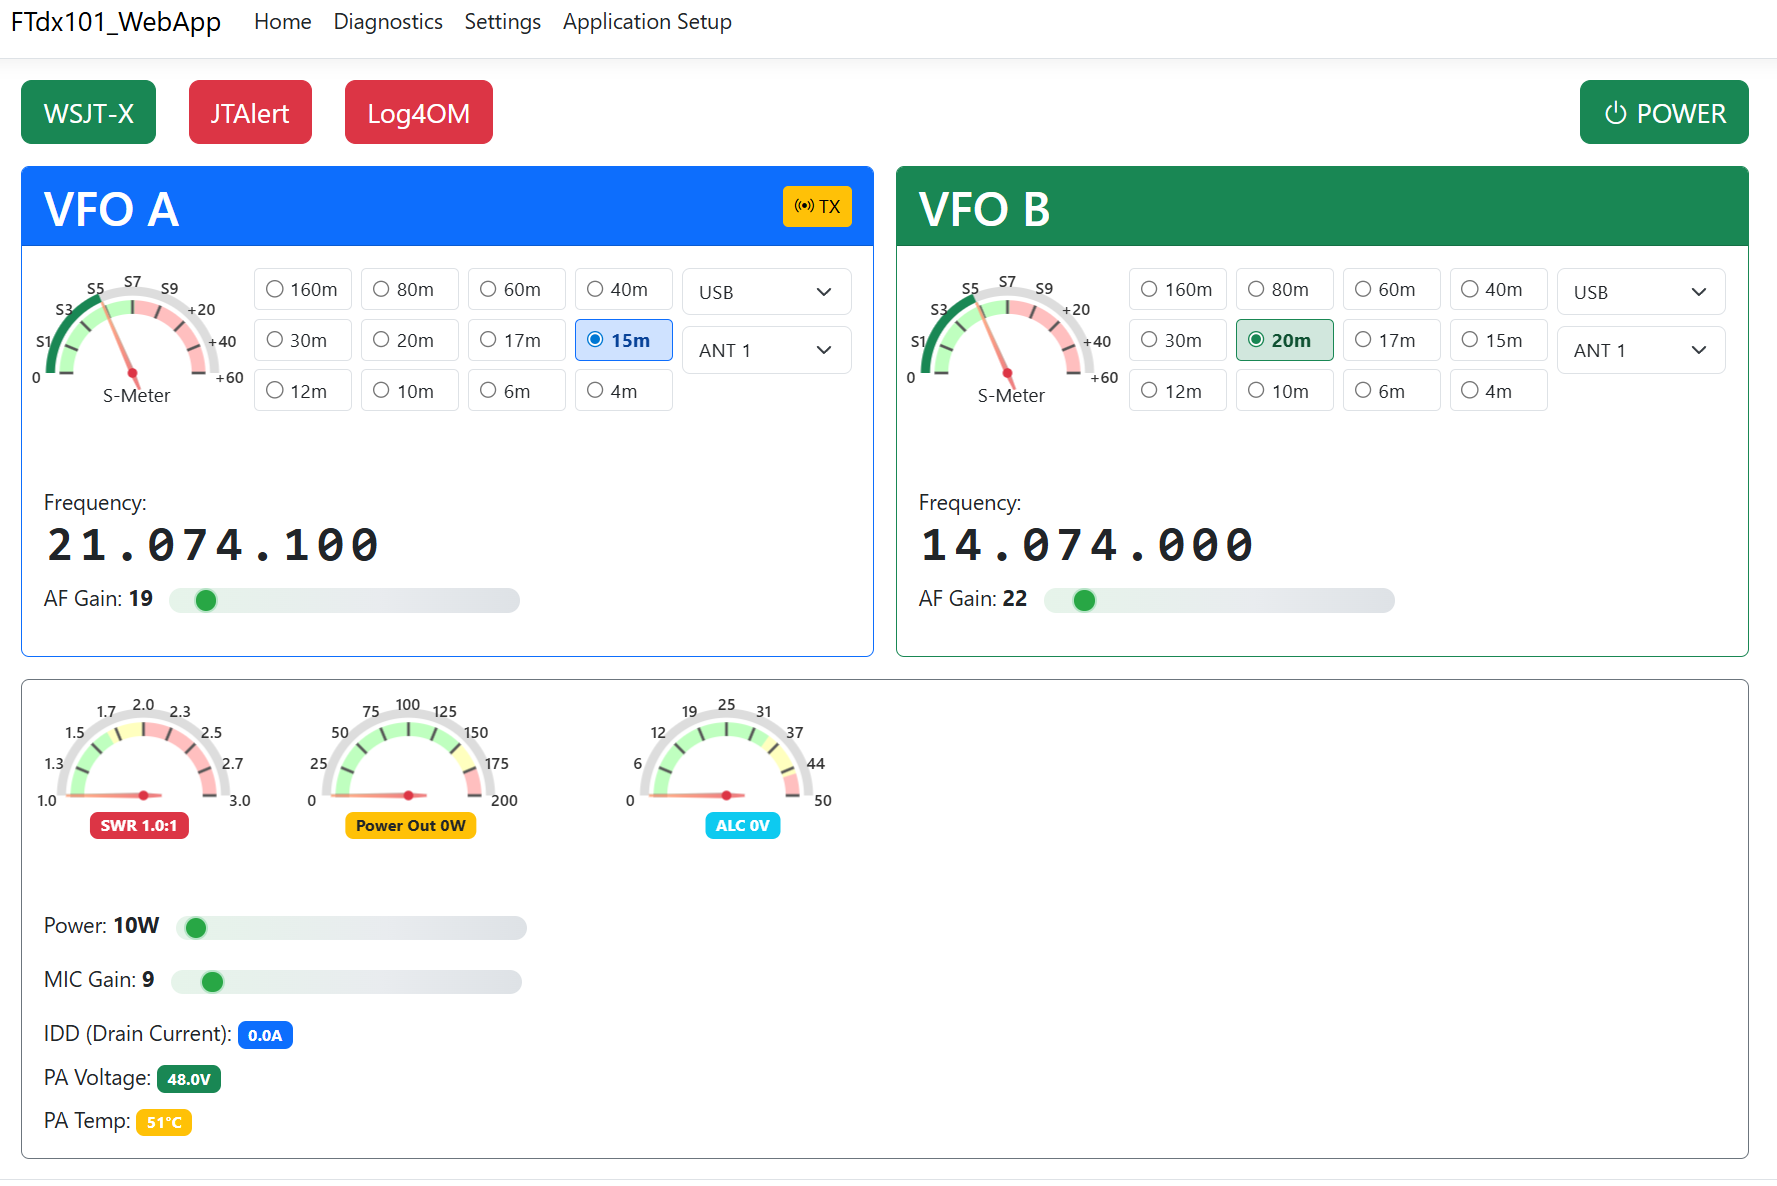
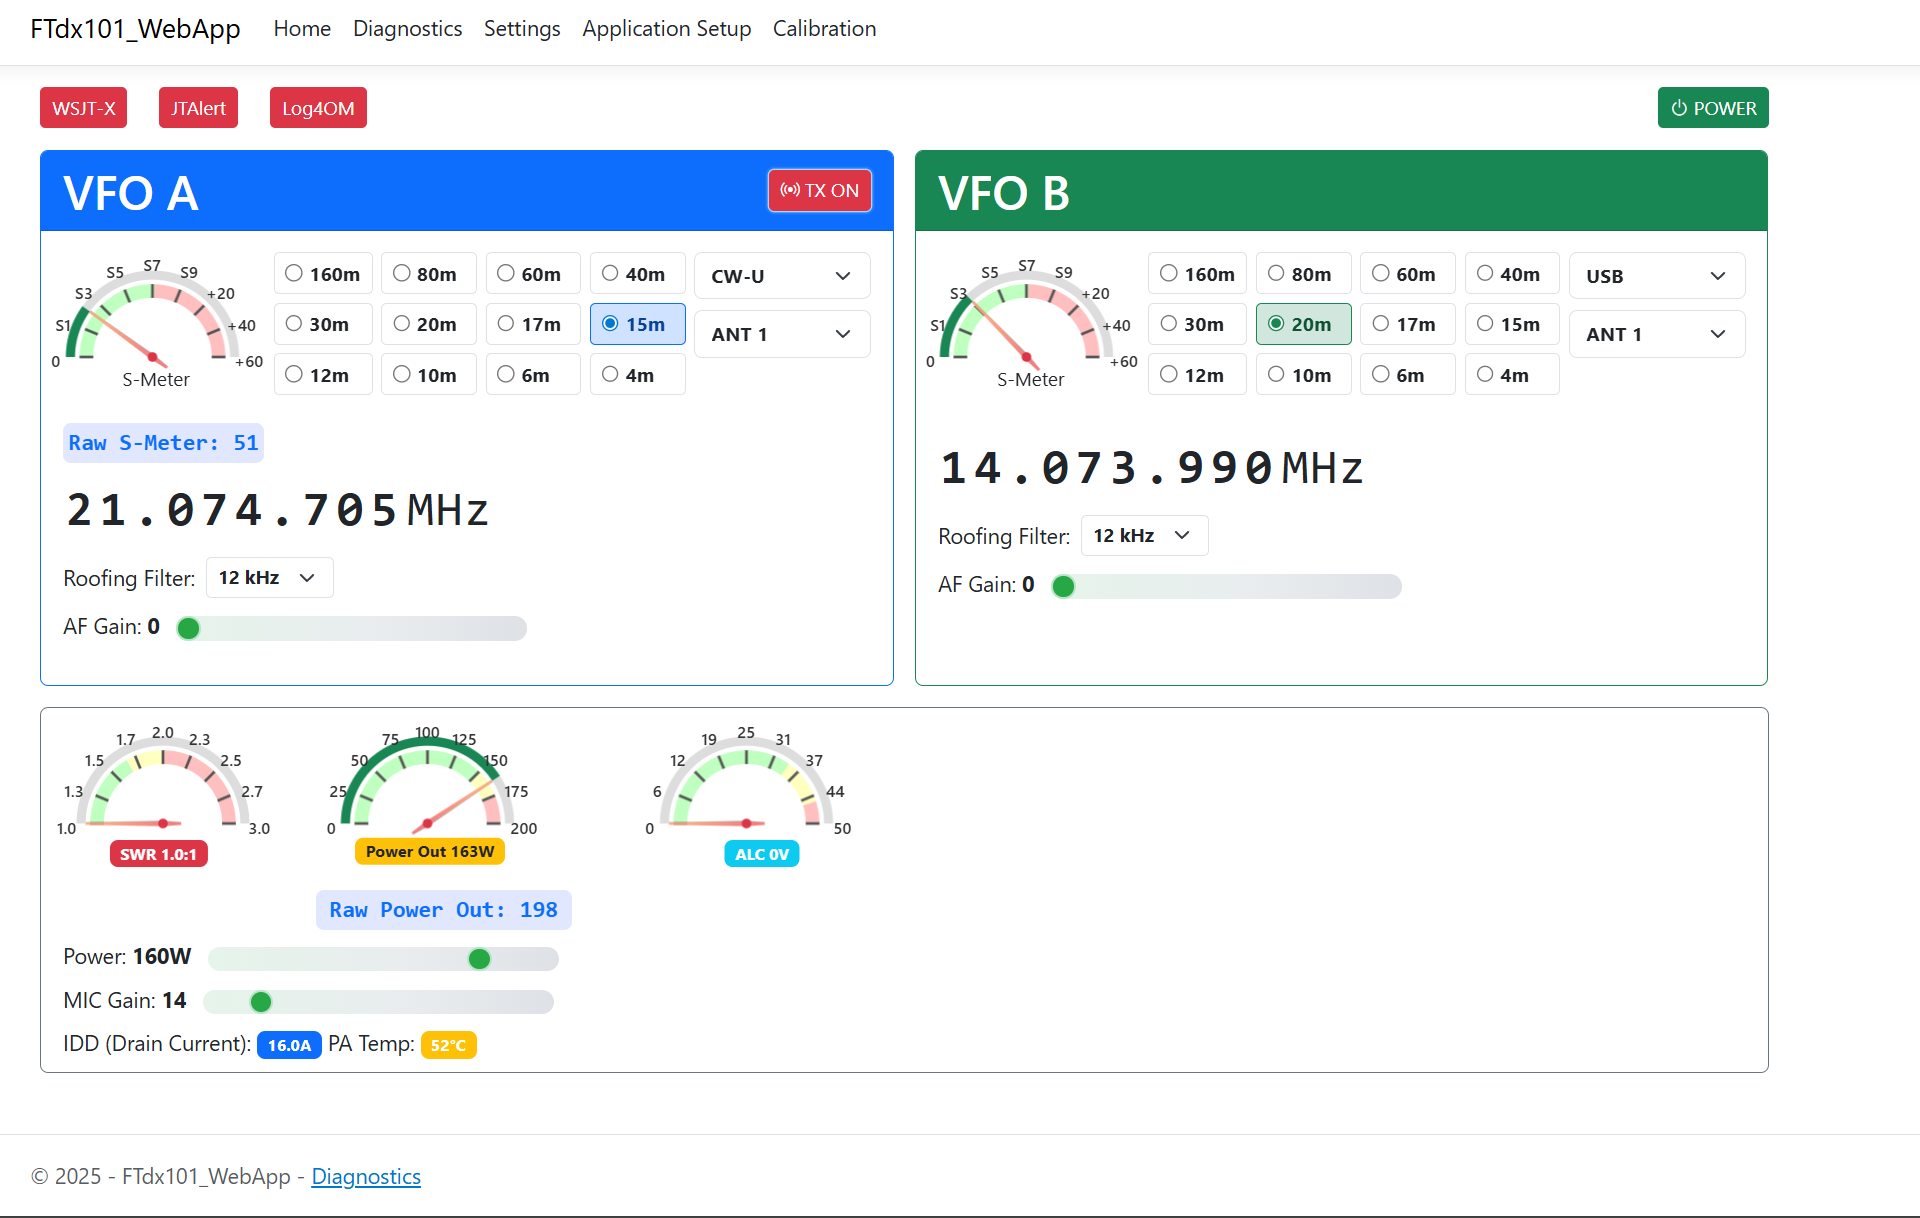
Screen layout and controls all to my liking

diff --git a/wwwroot/css/site.css b/wwwroot/css/site.css
@@ -825,3 +825,8 @@ fieldset.calibration-card {
     margin-left: -200px !important;
     font-size: 0.9rem; /* Match band radio button font size */
 }
+
+/* Move Power, Mic Gain, IDD, and PA Temp controls closer to Raw Power Out label (minimal gap) */
+.closer-to-raw-power {
+    margin-top: 8px !important; /* Minimal gap to visually group with Raw Power Out */
+}

diff --git a/wwwroot/css/closer-to-raw-power.css b/wwwroot/css/closer-to-raw-power.css
@@ -1,0 +1,9 @@
+/* Move Power, Mic Gain, IDD, and PA Temp closer to Raw Power Out label */
+.closer-to-raw-power {
+    margin-top: -3.5rem !important; /* Even stronger negative margin */
+    margin-bottom: 0.1rem !important;
+    display: block !important;
+    width: 100% !important;
+    position: relative;
+    z-index: 2;
+}
